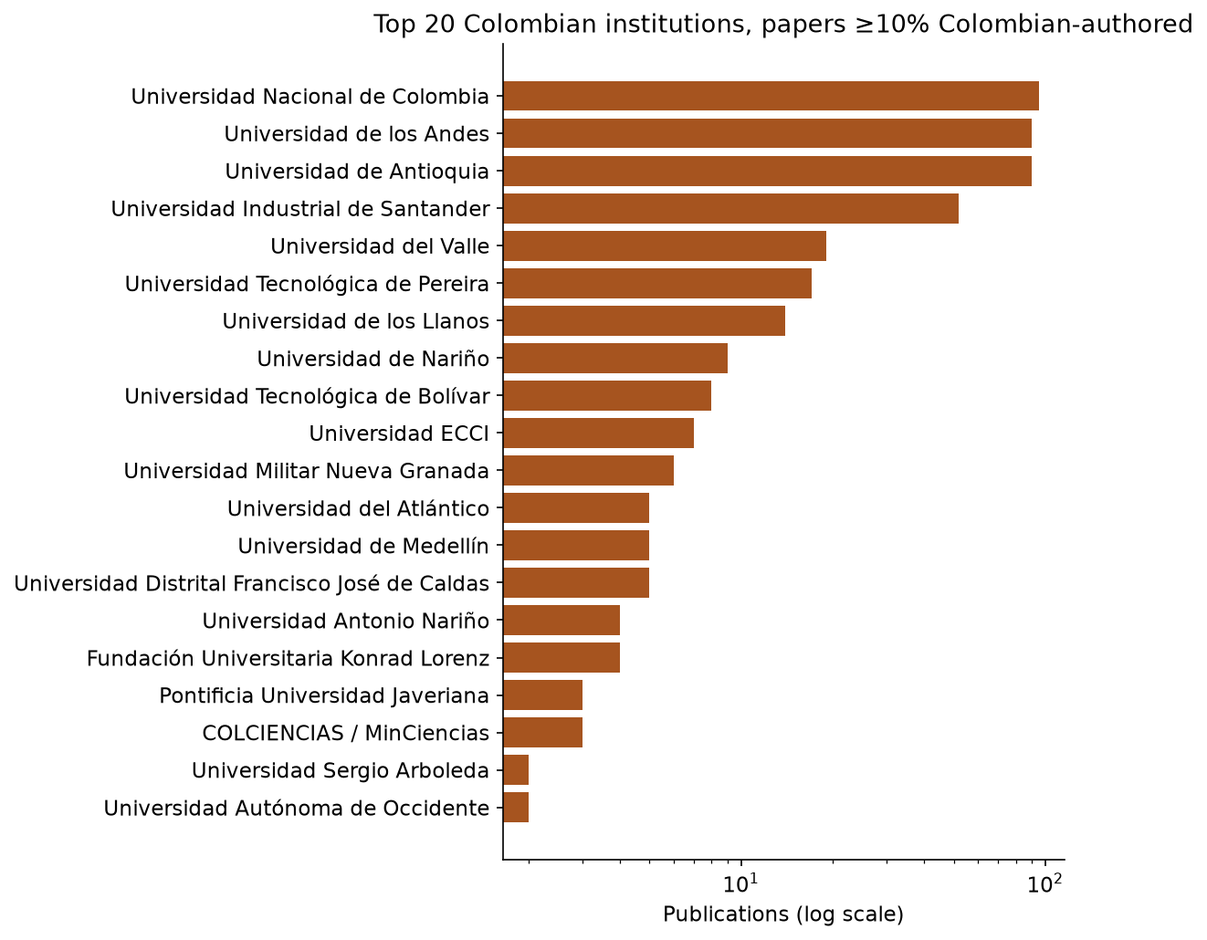
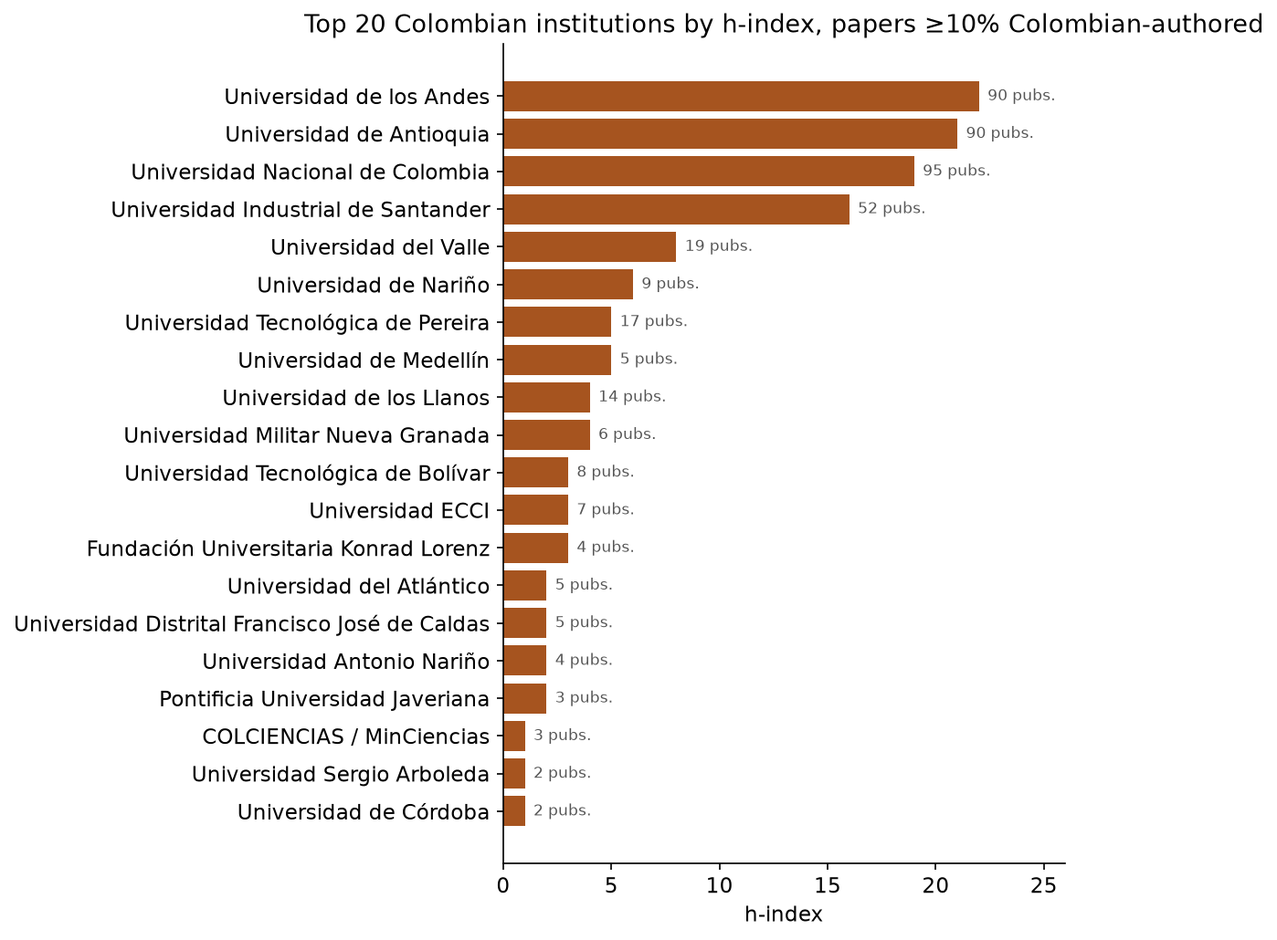
Ordenar las clasificaciones institucionales por Índice-H
Las dos tablas de instituciones y sus figuras pasan a ordenarse por Índice-H,
con número de publicaciones y total de citas como desempates, y las columnas
siguen ese mismo orden de izquierda a derecha. El Índice-H va primero porque
es el menos sensible a un solo artículo de consorcio: una publicación con
4.000 citas mueve el total de citas en un orden de magnitud pero el Índice-H
a lo sumo en una unidad.

Las figuras 4 y 11 pasan de barras de número de publicaciones en escala
logarítmica a barras de Índice-H en escala lineal, con el número de
publicaciones anotado en cada barra.

El nuevo orden cambia la lectura de la sección 8: los Andes siguen primeros,
pero su Índice-H baja de 47 a 22 y la ventaja sobre Antioquia (21) y la
Nacional (19) se disuelve en un empate técnico.

En el informe, "índice h" pasa a escribirse "Índice-H".

Changed region(s): [[0.0, 0.0, 0.9924, 0.9942]]

diff --git a/index.html b/index.html
@@ -534,7 +534,7 @@
 
   <div class="abstract">
     <span class="label">Resumen</span>
-    <p class="lede">Recopilamos 723 publicaciones de astronom&iacute;a y astrof&iacute;sica indexadas en el Astrophysics Data System de la NASA con al menos un autor de afiliaci&oacute;n colombiana, entre 1980 y 2026. El conjunto de registros abarca 56 revistas y, tras la fusi&oacute;n heur&iacute;stica de nombres, cerca de 403 investigadores individuales en 33 instituciones identificadas, que en conjunto acumulan m&aacute;s de 26.500 citas y un &iacute;ndice <em>h</em> global de 65. Reportamos tendencias de crecimiento, efectos del tama&ntilde;o de colaboraci&oacute;n, patrones de citaci&oacute;n, clasificaciones institucionales, y distribuciones por revista y por tema, siguiendo el enfoque descriptivo de Forero&#8209;Romero (2024) en todo lo que los datos disponibles lo permiten. Universidad de los Andes, Universidad de Antioquia, Universidad Nacional de Colombia y Universidad Industrial de Santander siguen siendo los cuatro mayores contribuyentes, consistente con el hallazgo central del estudio anterior pese a tres a&ntilde;os adicionales de datos y una base de datos fuente distinta.</p>
+    <p class="lede">Recopilamos 723 publicaciones de astronom&iacute;a y astrof&iacute;sica indexadas en el Astrophysics Data System de la NASA con al menos un autor de afiliaci&oacute;n colombiana, entre 1980 y 2026. El conjunto de registros abarca 56 revistas y, tras la fusi&oacute;n heur&iacute;stica de nombres, cerca de 403 investigadores individuales en 33 instituciones identificadas, que en conjunto acumulan m&aacute;s de 26.500 citas y un &Iacute;ndice-H global de 65. Reportamos tendencias de crecimiento, efectos del tama&ntilde;o de colaboraci&oacute;n, patrones de citaci&oacute;n, clasificaciones institucionales, y distribuciones por revista y por tema, siguiendo el enfoque descriptivo de Forero&#8209;Romero (2024) en todo lo que los datos disponibles lo permiten. Universidad de los Andes, Universidad de Antioquia, Universidad Nacional de Colombia y Universidad Industrial de Santander siguen siendo los cuatro mayores contribuyentes, consistente con el hallazgo central del estudio anterior pese a tres a&ntilde;os adicionales de datos y una base de datos fuente distinta.</p>
   </div>
 
   <div class="stat-strip">
@@ -543,7 +543,7 @@
     <div class="stat"><span class="n tabular">403</span><span class="lbl">Autores con afiliaci&oacute;n colombiana</span></div>
     <div class="stat"><span class="n tabular">33</span><span class="lbl">Instituciones identificadas</span></div>
     <div class="stat"><span class="n tabular">26.550</span><span class="lbl">Citas totales</span></div>
-    <div class="stat"><span class="n tabular">65</span><span class="lbl">&Iacute;ndice <em>h</em> global</span></div>
+    <div class="stat"><span class="n tabular">65</span><span class="lbl">&Iacute;ndice-H global</span></div>
   </div>
 
   <section class="chapter" id="data">
@@ -606,28 +606,29 @@
       <span class="chapter-num">5</span>
       <h2>Instituciones</h2>
     </div>
-    <p>Cuatro instituciones concentran la gran mayor&iacute;a de la producci&oacute;n atribuida institucionalmente: Universidad de los Andes, Universidad de Antioquia, Universidad Nacional de Colombia y Universidad Industrial de Santander, las mismas cuatro que encabezaban la clasificaci&oacute;n de Forero&#8209;Romero (2024) hace tres a&ntilde;os, ahora acompa&ntilde;adas de una cola m&aacute;s larga de contribuyentes menores. Como el rango abarca casi dos &oacute;rdenes de magnitud, la gr&aacute;fica a continuaci&oacute;n usa un eje logar&iacute;tmico.</p>
+    <p>Cuatro instituciones concentran la gran mayor&iacute;a de la producci&oacute;n atribuida institucionalmente: Universidad de los Andes, Universidad de Antioquia, Universidad Industrial de Santander y Universidad Nacional de Colombia, las mismas cuatro que encabezaban la clasificaci&oacute;n de Forero&#8209;Romero (2024) hace tres a&ntilde;os, ahora acompa&ntilde;adas de una cola m&aacute;s larga de contribuyentes menores.</p>
+    <p>Ordenamos las instituciones por &Iacute;ndice-H, y usamos el n&uacute;mero de publicaciones y luego el total de citas para desempatar. El &Iacute;ndice-H va primero porque es el menos sensible de los tres a un solo art&iacute;culo de consorcio: sumar una publicaci&oacute;n con 4.000 citas mueve el total de citas de una instituci&oacute;n en un orden de magnitud, pero su &Iacute;ndice-H a lo sumo en una unidad. Las tres columnas aparecen en ese mismo orden en las tablas, de izquierda a derecha.</p>
     <figure>
-      <div class="figure-card"><img src="output/figures/fig4_top_institutions.png" alt="Gr&aacute;fico de barras horizontales de las 20 principales instituciones colombianas por n&uacute;mero de publicaciones, eje x logar&iacute;tmico, encabezado por la Universidad de los Andes."></div>
-      <figcaption><strong>Fig. 6</strong>: Las 20 principales instituciones colombianas por n&uacute;mero de publicaciones (escala logar&iacute;tmica).</figcaption>
+      <div class="figure-card"><img src="output/figures/fig4_top_institutions.png" alt="Gr&aacute;fico de barras horizontales de las 20 principales instituciones colombianas por &iacute;ndice h, encabezado por la Universidad de los Andes con 47."></div>
+      <figcaption><strong>Fig. 6</strong>: Las 20 principales instituciones colombianas por &Iacute;ndice-H, con el n&uacute;mero de publicaciones anotado en cada barra.</figcaption>
     </figure>
     <div class="table-wrap">
       <table>
-        <caption>Tabla 1: Las 10 principales instituciones colombianas</caption>
+        <caption>Tabla 1: Las 10 principales instituciones colombianas, por &Iacute;ndice-H</caption>
         <thead>
-          <tr><th class="wrap">Instituci&oacute;n</th><th class="num">Pubs.</th><th class="num">Autores</th><th class="num">Citas</th><th class="num"><em>h</em></th><th class="num">Activa desde</th></tr>
+          <tr><th class="wrap">Instituci&oacute;n</th><th class="num">&Iacute;ndice-H</th><th class="num">Pubs.</th><th class="num">Citas</th><th class="num">Autores</th><th class="num">Activa desde</th></tr>
         </thead>
         <tbody>
-          <tr class="row-lead"><td class="wrap">Universidad de los Andes</td><td class="num">298</td><td class="num">67</td><td class="num">12.603</td><td class="num">47</td><td class="num">1980</td></tr>
-          <tr><td class="wrap">Universidad de Antioquia</td><td class="num">118</td><td class="num">75</td><td class="num">3.561</td><td class="num">29</td><td class="num">2005</td></tr>
-          <tr><td class="wrap">Universidad Nacional de Colombia</td><td class="num">99</td><td class="num">93</td><td class="num">1.357</td><td class="num">20</td><td class="num">1980</td></tr>
-          <tr><td class="wrap">Universidad Industrial de Santander</td><td class="num">84</td><td class="num">51</td><td class="num">6.723</td><td class="num">24</td><td class="num">2006</td></tr>
-          <tr><td class="wrap">Universidad de Medell&iacute;n</td><td class="num">24</td><td class="num">5</td><td class="num">943</td><td class="num">18</td><td class="num">2010</td></tr>
-          <tr><td class="wrap">Universidad del Valle</td><td class="num">19</td><td class="num">16</td><td class="num">220</td><td class="num">8</td><td class="num">2012</td></tr>
-          <tr><td class="wrap">Universidad Tecnol&oacute;gica de Pereira</td><td class="num">17</td><td class="num">12</td><td class="num">112</td><td class="num">5</td><td class="num">1997</td></tr>
-          <tr><td class="wrap">Universidad de los Llanos</td><td class="num">14</td><td class="num">1</td><td class="num">42</td><td class="num">4</td><td class="num">2018</td></tr>
-          <tr><td class="wrap">Universidad de Nari&ntilde;o</td><td class="num">12</td><td class="num">5</td><td class="num">187</td><td class="num">7</td><td class="num">2015</td></tr>
-          <tr><td class="wrap">Universidad ECCI</td><td class="num">9</td><td class="num">6</td><td class="num">363</td><td class="num">5</td><td class="num">2017</td></tr>
+          <tr class="row-lead"><td class="wrap">Universidad de los Andes</td><td class="num">47</td><td class="num">298</td><td class="num">12.603</td><td class="num">67</td><td class="num">1980</td></tr>
+          <tr><td class="wrap">Universidad de Antioquia</td><td class="num">29</td><td class="num">118</td><td class="num">3.561</td><td class="num">75</td><td class="num">2005</td></tr>
+          <tr><td class="wrap">Universidad Industrial de Santander</td><td class="num">24</td><td class="num">84</td><td class="num">6.723</td><td class="num">51</td><td class="num">2006</td></tr>
+          <tr><td class="wrap">Universidad Nacional de Colombia</td><td class="num">20</td><td class="num">99</td><td class="num">1.357</td><td class="num">93</td><td class="num">1980</td></tr>
+          <tr><td class="wrap">Universidad de Medell&iacute;n</td><td class="num">18</td><td class="num">24</td><td class="num">943</td><td class="num">5</td><td class="num">2010</td></tr>
+          <tr><td class="wrap">Universidad del Valle</td><td class="num">8</td><td class="num">19</td><td class="num">220</td><td class="num">16</td><td class="num">2012</td></tr>
+          <tr><td class="wrap">Universidad de Nari&ntilde;o</td><td class="num">7</td><td class="num">12</td><td class="num">187</td><td class="num">5</td><td class="num">2015</td></tr>
+          <tr><td class="wrap">Universidad Tecnol&oacute;gica de Pereira</td><td class="num">5</td><td class="num">17</td><td class="num">112</td><td class="num">12</td><td class="num">1997</td></tr>
+          <tr><td class="wrap">Universidad ECCI</td><td class="num">5</td><td class="num">9</td><td class="num">363</td><td class="num">6</td><td class="num">2017</td></tr>
+          <tr><td class="wrap">Universidad de los Llanos</td><td class="num">4</td><td class="num">14</td><td class="num">42</td><td class="num">1</td><td class="num">2018</td></tr>
         </tbody>
       </table>
     </div>
@@ -689,31 +690,31 @@
     <p>Preferimos este criterio a un tope en el n&uacute;mero de autores por tres razones. Es adimensional, de modo que no envejece a medida que las colaboraciones crecen. Mide directamente lo que interesa, la parte del art&iacute;culo que es colombiana, en vez de usar el tama&ntilde;o como sustituto. Y conserva los trabajos grandes con participaci&oacute;n colombiana sustancial que un corte por tama&ntilde;o descartar&iacute;a: el art&iacute;culo de ocultaci&oacute;n estelar de Arrokoth (2020) tiene 133 autores, quince de ellos colombianos, y sobrevive al filtro. Un corte por tama&ntilde;o, adem&aacute;s, no tendr&iacute;a d&oacute;nde apoyarse: el histograma de n&uacute;mero de autores (Fig. 3) solo presenta un hueco claro entre 80 y 100, que separa consorcios grandes de consorcios enormes en lugar de aislar el trabajo colombiano. La franja de 31 a 80 autores son casi enteramente art&iacute;culos t&eacute;cnicos de DESI con un &uacute;nico coautor colombiano, con una participaci&oacute;n colombiana media del 2&#37;.</p>
     <p>Conviene subrayar que las publicaciones descartadas son trabajo real y a menudo de alto impacto. El objetivo no es excluirlas, sino ver qu&eacute; queda cuando no dominan el conteo.</p>
     <figure>
-      <div class="figure-card"><img src="output/figures/fig11_top_institutions_colombia_led.png" alt="Gr&aacute;fico de barras horizontales de las 20 principales instituciones colombianas contando solo publicaciones con al menos un 10&#37; de autores colombianos, eje x logar&iacute;tmico; la Universidad Nacional queda primera, seguida de cerca por los Andes y Antioquia."></div>
-      <figcaption><strong>Fig. 9</strong>: Las 20 principales instituciones contando solo publicaciones con al menos un 10&#37; de autores colombianos (escala logar&iacute;tmica). Comp&aacute;rese con la Fig. 6.</figcaption>
+      <div class="figure-card"><img src="output/figures/fig11_top_institutions_colombia_led.png" alt="Gr&aacute;fico de barras horizontales de las 20 principales instituciones colombianas por &iacute;ndice h, contando solo publicaciones con al menos un 10&#37; de autores colombianos; los Andes, Antioquia y la Nacional quedan casi empatadas."></div>
+      <figcaption><strong>Fig. 9</strong>: Las 20 principales instituciones por &Iacute;ndice-H, contando solo publicaciones con al menos un 10&#37; de autores colombianos. Comp&aacute;rese con la Fig. 6, donde la escala del eje es m&aacute;s del doble.</figcaption>
     </figure>
     <div class="table-wrap">
       <table>
-        <caption>Tabla 3: Las 10 principales instituciones en publicaciones con &#8805;10&#37; de autores colombianos</caption>
+        <caption>Tabla 3: Las 10 principales instituciones en publicaciones con &#8805;10&#37; de autores colombianos, por &Iacute;ndice-H</caption>
         <thead>
-          <tr><th class="wrap">Instituci&oacute;n</th><th class="num">Pubs.</th><th class="num">Autores</th><th class="num">Citas</th><th class="num"><em>h</em></th><th class="num">Pubs. en Tabla 1</th></tr>
+          <tr><th class="wrap">Instituci&oacute;n</th><th class="num">&Iacute;ndice-H</th><th class="num">Pubs.</th><th class="num">Citas</th><th class="num">Autores</th><th class="num">&Iacute;ndice-H en Tabla 1</th></tr>
         </thead>
         <tbody>
-          <tr class="row-lead"><td class="wrap">Universidad Nacional de Colombia</td><td class="num">95</td><td class="num">89</td><td class="num">1.288</td><td class="num">19</td><td class="num">99</td></tr>
-          <tr><td class="wrap">Universidad de los Andes</td><td class="num">90</td><td class="num">63</td><td class="num">1.615</td><td class="num">22</td><td class="num">298</td></tr>
-          <tr><td class="wrap">Universidad de Antioquia</td><td class="num">90</td><td class="num">70</td><td class="num">1.764</td><td class="num">21</td><td class="num">118</td></tr>
-          <tr><td class="wrap">Universidad Industrial de Santander</td><td class="num">52</td><td class="num">35</td><td class="num">914</td><td class="num">16</td><td class="num">84</td></tr>
-          <tr><td class="wrap">Universidad del Valle</td><td class="num">19</td><td class="num">16</td><td class="num">220</td><td class="num">8</td><td class="num">19</td></tr>
-          <tr><td class="wrap">Universidad Tecnol&oacute;gica de Pereira</td><td class="num">17</td><td class="num">12</td><td class="num">112</td><td class="num">5</td><td class="num">17</td></tr>
-          <tr><td class="wrap">Universidad de los Llanos</td><td class="num">14</td><td class="num">1</td><td class="num">42</td><td class="num">4</td><td class="num">14</td></tr>
-          <tr><td class="wrap">Universidad de Nari&ntilde;o</td><td class="num">9</td><td class="num">4</td><td class="num">147</td><td class="num">6</td><td class="num">12</td></tr>
-          <tr><td class="wrap">Universidad Tecnol&oacute;gica de Bol&iacute;var</td><td class="num">8</td><td class="num">6</td><td class="num">34</td><td class="num">3</td><td class="num">8</td></tr>
-          <tr><td class="wrap">Universidad ECCI</td><td class="num">7</td><td class="num">5</td><td class="num">34</td><td class="num">3</td><td class="num">9</td></tr>
+          <tr class="row-lead"><td class="wrap">Universidad de los Andes</td><td class="num">22</td><td class="num">90</td><td class="num">1.615</td><td class="num">63</td><td class="num">47</td></tr>
+          <tr><td class="wrap">Universidad de Antioquia</td><td class="num">21</td><td class="num">90</td><td class="num">1.764</td><td class="num">70</td><td class="num">29</td></tr>
+          <tr><td class="wrap">Universidad Nacional de Colombia</td><td class="num">19</td><td class="num">95</td><td class="num">1.288</td><td class="num">89</td><td class="num">20</td></tr>
+          <tr><td class="wrap">Universidad Industrial de Santander</td><td class="num">16</td><td class="num">52</td><td class="num">914</td><td class="num">35</td><td class="num">24</td></tr>
+          <tr><td class="wrap">Universidad del Valle</td><td class="num">8</td><td class="num">19</td><td class="num">220</td><td class="num">16</td><td class="num">8</td></tr>
+          <tr><td class="wrap">Universidad de Nari&ntilde;o</td><td class="num">6</td><td class="num">9</td><td class="num">147</td><td class="num">4</td><td class="num">7</td></tr>
+          <tr><td class="wrap">Universidad Tecnol&oacute;gica de Pereira</td><td class="num">5</td><td class="num">17</td><td class="num">112</td><td class="num">12</td><td class="num">5</td></tr>
+          <tr><td class="wrap">Universidad de Medell&iacute;n</td><td class="num">5</td><td class="num">5</td><td class="num">192</td><td class="num">3</td><td class="num">18</td></tr>
+          <tr><td class="wrap">Universidad de los Llanos</td><td class="num">4</td><td class="num">14</td><td class="num">42</td><td class="num">1</td><td class="num">4</td></tr>
+          <tr><td class="wrap">Universidad Militar Nueva Granada</td><td class="num">4</td><td class="num">6</td><td class="num">50</td><td class="num">4</td><td class="num">4</td></tr>
         </tbody>
       </table>
     </div>
-    <p>El cambio m&aacute;s marcado est&aacute; en la cabeza de la tabla, y llega a invertir el orden. La Universidad de los Andes pasa de 298 a 90 publicaciones: cerca del 70&#37; de su producci&oacute;n registrada proviene de art&iacute;culos de grandes colaboraciones internacionales, y de manera casi exclusiva de DESI, a la que est&aacute; vinculado el Observatorio Astron&oacute;mico de la Universidad de los Andes. La Universidad Nacional de Colombia, en cambio, pasa de 99 a 95 y queda en el primer puesto, porque su recuento es casi enteramente trabajo con participaci&oacute;n colombiana mayoritaria. Antioquia baja de 118 a 90 y empata con los Andes; la Universidad Industrial de Santander baja de 84 a 52, por su participaci&oacute;n en el Observatorio Pierre Auger.</p>
-    <p>Las citas se reordenan a&uacute;n m&aacute;s: los Andes pasan de 12.603 a 1.615 y la UIS de 6.723 a 914, mientras que la Nacional apenas baja de 1.357 a 1.288. Dicho de otro modo, la mayor parte de la ventaja en citas de las dos primeras instituciones proviene de art&iacute;culos de consorcio con cientos o miles de coautores, donde la contribuci&oacute;n colombiana es una fracci&oacute;n del total. Ninguna de las dos lecturas es la correcta por s&iacute; sola: la Tabla 1 mide participaci&oacute;n en la astronom&iacute;a mundial y la Tabla 3 mide capacidad de investigaci&oacute;n propia, y la diferencia entre ambas es en s&iacute; misma el hallazgo.</p>
+    <p>El orden de la cabeza apenas cambia, pero las distancias se disuelven. La Universidad de los Andes sigue primera, y pasa de un &Iacute;ndice-H de 47 a uno de 22, y de 298 a 90 publicaciones: cerca del 70&#37; de su producci&oacute;n registrada proviene de art&iacute;culos de grandes colaboraciones internacionales, y de manera casi exclusiva de DESI, a la que est&aacute; vinculado el Observatorio Astron&oacute;mico de la Universidad de los Andes. La Universidad Nacional de Colombia, en cambio, apenas baja de 20 a 19 y de 99 a 95 publicaciones, porque su recuento es casi enteramente trabajo con participaci&oacute;n colombiana mayoritaria: es la instituci&oacute;n con m&aacute;s publicaciones de la Tabla 3, aunque no la de mayor &Iacute;ndice-H. Lo que en la Tabla 1 era una ventaja de m&aacute;s de dos a uno en &Iacute;ndice-H se convierte aqu&iacute; en un empate t&eacute;cnico entre tres instituciones: 22, 21 y 19.</p>
+    <p>Las citas se reordenan a&uacute;n m&aacute;s: los Andes pasan de 12.603 a 1.615 y la UIS de 6.723 a 914, mientras que la Nacional apenas baja de 1.357 a 1.288. Dicho de otro modo, la mayor parte de la ventaja en citas de las dos primeras instituciones proviene de art&iacute;culos de consorcio con cientos o miles de coautores, donde la contribuci&oacute;n colombiana es una fracci&oacute;n del total. La Universidad de Medell&iacute;n es el caso extremo: su &Iacute;ndice-H cae de 18 a 5, porque 19 de sus 24 publicaciones son art&iacute;culos de consorcio. Ninguna de las dos lecturas es la correcta por s&iacute; sola: la Tabla 1 mide participaci&oacute;n en la astronom&iacute;a mundial y la Tabla 3 mide capacidad de investigaci&oacute;n propia, y la diferencia entre ambas es en s&iacute; misma el hallazgo.</p>
     <p>El mismo criterio aplicado a los trabajos m&aacute;s citados cambia la lista por completo: ninguno de los diez art&iacute;culos de la Tabla 2 sobrevive al filtro. Lo que aparece en su lugar son art&iacute;culos de grupos peque&ntilde;os, de entre tres y catorce autores, en poblaciones estelares y c&uacute;mulos j&oacute;venes, astrof&iacute;sica relativista, red c&oacute;smica y f&iacute;sica solar.</p>
     <div class="table-wrap">
       <table>

diff --git a/src/plots.py b/src/plots.py
@@ -205,27 +205,34 @@ def fig_citations_vs_authors(pubs: pd.DataFrame) -> float:
     return pearson_r
 
 
-def fig_top_institutions(authors: pd.DataFrame, top_n: int = 20) -> pd.DataFrame:
-    colombian = authors[authors["is_colombian"]]
-    counts = (
-        colombian[colombian["institution"] != "Other Colombian institution"]
-        .groupby("institution")["bibcode"]
-        .nunique()
-        .sort_values(ascending=False)
-    )
-    top = counts.head(top_n)
+def _plot_institution_ranking(table: pd.DataFrame, path: Path, title: str, color: str) -> None:
+    """Horizontal bars of h-index in ranking order (h, then pubs, then citations).
 
+    The bar length is the h-index because that is the primary sort key; the
+    publication count is annotated on each bar so the second key stays visible.
+    """
     fig, ax = plt.subplots(figsize=(8, 7))
-    ax.barh(top.index[::-1], top.to_numpy()[::-1], color="#1f5aa6")
-    # This ranking spans ~2 orders of magnitude (Uniandes vs. the smallest
-    # entrant), so a linear axis flattens everything below the top few bars.
-    ax.set_xscale("log")
-    ax.set_xlabel("Publications (log scale)")
-    ax.set_title(f"Top {top_n} Colombian institutions by publication count")
+    rows = table[::-1]
+    ax.barh(rows["Institution"], rows["h_index"], color=color)
+    for y, (h, n) in enumerate(zip(rows["h_index"], rows["n_publications"])):
+        ax.text(h + 0.4, y, f"{n} pubs.", va="center", fontsize=8, color="#555555")
+    ax.set_xlim(0, table["h_index"].max() * 1.18)
+    ax.set_xlabel("h-index")
+    ax.set_title(title)
     fig.tight_layout()
-    fig.savefig(FIG_DIR / "fig4_top_institutions.png", bbox_inches="tight")
+    fig.savefig(path, bbox_inches="tight")
     plt.close(fig)
-    return counts
+
+
+def fig_top_institutions(authors: pd.DataFrame, pubs: pd.DataFrame, top_n: int = 20) -> pd.DataFrame:
+    table = _institution_stats(authors, pubs, top_n)
+    _plot_institution_ranking(
+        table,
+        FIG_DIR / "fig4_top_institutions.png",
+        f"Top {top_n} Colombian institutions by h-index",
+        "#1f5aa6",
+    )
+    return table
 
 
 def fig_top_authors(authors: pd.DataFrame, top_n: int = 20) -> pd.DataFrame:
@@ -335,8 +342,15 @@ def fig_coauthorship_network(authors: pd.DataFrame, min_pubs: int = 5) -> None:
 # ---------------------------------------------------------------------------
 
 
+# Institution rankings are ordered by h-index first, since it is the least
+# gameable of the three by a single large-collaboration paper, with publication
+# count and then total citations as tie-breakers. Table columns follow the same
+# order so the ranking key is readable left to right.
+INSTITUTION_RANK_KEYS = ["h_index", "n_publications", "total_citations"]
+
+
 def _institution_stats(authors: pd.DataFrame, pubs: pd.DataFrame, top_n: int) -> pd.DataFrame:
-    """Per-institution publication, author and citation stats, ranked by pubs."""
+    """Per-institution stats, ranked by h-index, then publications, then citations."""
     colombian = authors[
         authors["is_colombian"] & (authors["institution"] != "Other Colombian institution")
     ]
@@ -358,10 +372,14 @@ def _institution_stats(authors: pd.DataFrame, pubs: pd.DataFrame, top_n: int) ->
     table = (
         grouped.join(years)
         .join(citation_stats)
-        .sort_values("n_publications", ascending=False)
+        .sort_values(INSTITUTION_RANK_KEYS, ascending=False)
         .head(top_n)
+        .reset_index()
+        .rename(columns={"institution": "Institution"})
     )
-    return table.reset_index().rename(columns={"institution": "Institution"})
+    return table[
+        ["Institution", *INSTITUTION_RANK_KEYS, "n_unique_authors", "first_year", "last_year"]
+    ]
 
 
 def table_institutions(authors: pd.DataFrame, pubs: pd.DataFrame, top_n: int = 25) -> pd.DataFrame:
@@ -421,30 +439,16 @@ def fig_top_institutions_colombia_led(
 ) -> pd.DataFrame:
     """Fig. 4's ranking over Colombia-led publications only."""
     led = colombia_led(pubs)
-    colombian = authors[
-        authors["is_colombian"]
-        & (authors["institution"] != "Other Colombian institution")
-        & authors["bibcode"].isin(set(led["bibcode"]))
-    ]
-    counts = (
-        colombian.groupby("institution")["bibcode"]
-        .nunique()
-        .sort_values(ascending=False)
+    led_authors = authors[authors["bibcode"].isin(set(led["bibcode"]))]
+    table = _institution_stats(led_authors, led, top_n)
+    _plot_institution_ranking(
+        table,
+        FIG_DIR / "fig11_top_institutions_colombia_led.png",
+        f"Top {top_n} Colombian institutions by h-index, papers "
+        f"\u2265{COLOMBIA_LED_MIN_SHARE:.0%} Colombian-authored",
+        "#a6541f",
     )
-    top = counts.head(top_n)
-
-    fig, ax = plt.subplots(figsize=(8, 7))
-    ax.barh(top.index[::-1], top.to_numpy()[::-1], color="#a6541f")
-    ax.set_xscale("log")
-    ax.set_xlabel("Publications (log scale)")
-    ax.set_title(
-        f"Top {top_n} Colombian institutions, papers "
-        f"\u2265{COLOMBIA_LED_MIN_SHARE:.0%} Colombian-authored"
-    )
-    fig.tight_layout()
-    fig.savefig(FIG_DIR / "fig11_top_institutions_colombia_led.png", bbox_inches="tight")
-    plt.close(fig)
-    return counts
+    return table
 
 
 def _top_cited(pubs: pd.DataFrame, authors: pd.DataFrame, top_n: int) -> pd.DataFrame:
@@ -590,7 +594,7 @@ def main() -> None:
     fig_authors_distribution(pubs)
     fig_citations_per_year(pubs)
     fig_citations_vs_authors(pubs)
-    fig_top_institutions(authors)
+    fig_top_institutions(authors, pubs)
     fig_top_authors(authors)
     fig_top_journals(pubs)
     fig_top_keywords(pubs)

diff --git a/output/tables/table5_institutions_colombia_led.md b/output/tables/table5_institutions_colombia_led.md
@@ -1,29 +1,29 @@
 # Top Colombian institutions, publications >= 10% Colombian-authored
 
-| Institution | n_publications | n_unique_authors | first_year | last_year | total_citations | h_index |
+| Institution | h_index | n_publications | total_citations | n_unique_authors | first_year | last_year |
 | --- | --- | --- | --- | --- | --- | --- |
-| Universidad Nacional de Colombia | 95 | 89 | 1980 | 2026 | 1288 | 19 |
-| Universidad de los Andes | 90 | 63 | 1980 | 2026 | 1615 | 22 |
-| Universidad de Antioquia | 90 | 70 | 2005 | 2026 | 1764 | 21 |
-| Universidad Industrial de Santander | 52 | 35 | 2006 | 2026 | 914 | 16 |
-| Universidad del Valle | 19 | 16 | 2012 | 2025 | 220 | 8 |
-| Universidad Tecnológica de Pereira | 17 | 12 | 1997 | 2026 | 112 | 5 |
-| Universidad de los Llanos | 14 | 1 | 2018 | 2026 | 42 | 4 |
-| Universidad de Nariño | 9 | 4 | 2015 | 2025 | 147 | 6 |
-| Universidad Tecnológica de Bolívar | 8 | 6 | 2022 | 2026 | 34 | 3 |
-| Universidad ECCI | 7 | 5 | 2017 | 2026 | 34 | 3 |
-| Universidad Militar Nueva Granada | 6 | 4 | 2017 | 2026 | 50 | 4 |
-| Universidad del Atlántico | 5 | 6 | 1997 | 2023 | 25 | 2 |
-| Universidad de Medellín | 5 | 3 | 2010 | 2016 | 192 | 5 |
-| Universidad Distrital Francisco José de Caldas | 5 | 7 | 2019 | 2022 | 18 | 2 |
-| Universidad Antonio Nariño | 4 | 4 | 2024 | 2026 | 12 | 2 |
-| Fundación Universitaria Konrad Lorenz | 4 | 2 | 2016 | 2018 | 302 | 3 |
-| Pontificia Universidad Javeriana | 3 | 4 | 2018 | 2022 | 9 | 2 |
-| COLCIENCIAS / MinCiencias | 3 | 2 | 2015 | 2021 | 4 | 1 |
-| Universidad Sergio Arboleda | 2 | 2 | 2019 | 2020 | 59 | 1 |
-| Universidad Autónoma de Occidente | 2 | 5 | 2014 | 2026 | 0 | 0 |
-| Universidad de Córdoba | 2 | 2 | 2022 | 2026 | 13 | 1 |
-| Fundación Universitaria Los Libertadores | 2 | 4 | 2025 | 2026 | 11 | 1 |
-| Universidad EAFIT | 2 | 3 | 2019 | 2026 | 11 | 1 |
-| Universidad Pedagógica y Tecnológica de Colombia | 1 | 3 | 2026 | 2026 | 0 | 0 |
-| Colombian Air Force (FAC/EMAVI) | 1 | 3 | 2025 | 2025 | 0 | 0 |
+| Universidad de los Andes | 22 | 90 | 1615 | 63 | 1980 | 2026 |
+| Universidad de Antioquia | 21 | 90 | 1764 | 70 | 2005 | 2026 |
+| Universidad Nacional de Colombia | 19 | 95 | 1288 | 89 | 1980 | 2026 |
+| Universidad Industrial de Santander | 16 | 52 | 914 | 35 | 2006 | 2026 |
+| Universidad del Valle | 8 | 19 | 220 | 16 | 2012 | 2025 |
+| Universidad de Nariño | 6 | 9 | 147 | 4 | 2015 | 2025 |
+| Universidad Tecnológica de Pereira | 5 | 17 | 112 | 12 | 1997 | 2026 |
+| Universidad de Medellín | 5 | 5 | 192 | 3 | 2010 | 2016 |
+| Universidad de los Llanos | 4 | 14 | 42 | 1 | 2018 | 2026 |
+| Universidad Militar Nueva Granada | 4 | 6 | 50 | 4 | 2017 | 2026 |
+| Universidad Tecnológica de Bolívar | 3 | 8 | 34 | 6 | 2022 | 2026 |
+| Universidad ECCI | 3 | 7 | 34 | 5 | 2017 | 2026 |
+| Fundación Universitaria Konrad Lorenz | 3 | 4 | 302 | 2 | 2016 | 2018 |
+| Universidad del Atlántico | 2 | 5 | 25 | 6 | 1997 | 2023 |
+| Universidad Distrital Francisco José de Caldas | 2 | 5 | 18 | 7 | 2019 | 2022 |
+| Universidad Antonio Nariño | 2 | 4 | 12 | 4 | 2024 | 2026 |
+| Pontificia Universidad Javeriana | 2 | 3 | 9 | 4 | 2018 | 2022 |
+| COLCIENCIAS / MinCiencias | 1 | 3 | 4 | 2 | 2015 | 2021 |
+| Universidad Sergio Arboleda | 1 | 2 | 59 | 2 | 2019 | 2020 |
+| Universidad de Córdoba | 1 | 2 | 13 | 2 | 2022 | 2026 |
+| Fundación Universitaria Los Libertadores | 1 | 2 | 11 | 4 | 2025 | 2026 |
+| Universidad EAFIT | 1 | 2 | 11 | 3 | 2019 | 2026 |
+| Planetario de Bogotá | 1 | 1 | 22 | 1 | 2013 | 2013 |
+| Universidad Ean | 1 | 1 | 7 | 1 | 2023 | 2023 |
+| Universidad El Bosque | 1 | 1 | 7 | 1 | 2024 | 2024 |

diff --git a/output/tables/table1_institutions.md b/output/tables/table1_institutions.md
@@ -1,29 +1,29 @@
 # Top Colombian institutions
 
-| Institution | n_publications | n_unique_authors | first_year | last_year | total_citations | h_index |
+| Institution | h_index | n_publications | total_citations | n_unique_authors | first_year | last_year |
 | --- | --- | --- | --- | --- | --- | --- |
-| Universidad de los Andes | 298 | 67 | 1980 | 2026 | 12603 | 47 |
-| Universidad de Antioquia | 118 | 75 | 2005 | 2026 | 3561 | 29 |
-| Universidad Nacional de Colombia | 99 | 93 | 1980 | 2026 | 1357 | 20 |
-| Universidad Industrial de Santander | 84 | 51 | 2006 | 2026 | 6723 | 24 |
-| Universidad de Medellín | 24 | 5 | 2010 | 2025 | 943 | 18 |
-| Universidad del Valle | 19 | 16 | 2012 | 2025 | 220 | 8 |
-| Universidad Tecnológica de Pereira | 17 | 12 | 1997 | 2026 | 112 | 5 |
-| Universidad de los Llanos | 14 | 1 | 2018 | 2026 | 42 | 4 |
-| Universidad de Nariño | 12 | 5 | 2015 | 2026 | 187 | 7 |
-| Universidad ECCI | 9 | 6 | 2017 | 2026 | 363 | 5 |
-| Universidad Tecnológica de Bolívar | 8 | 6 | 2022 | 2026 | 34 | 3 |
-| Universidad Militar Nueva Granada | 8 | 4 | 2017 | 2026 | 103 | 4 |
-| Universidad del Atlántico | 5 | 6 | 1997 | 2023 | 25 | 2 |
-| Universidad Distrital Francisco José de Caldas | 5 | 7 | 2019 | 2022 | 18 | 2 |
-| Fundación Universitaria Konrad Lorenz | 5 | 2 | 2016 | 2022 | 643 | 4 |
-| Universidad Antonio Nariño | 4 | 4 | 2024 | 2026 | 12 | 2 |
-| Universidad EAFIT | 3 | 4 | 2019 | 2026 | 14 | 2 |
-| Universidad de Investigación y Desarrollo | 3 | 1 | 2025 | 2025 | 15 | 3 |
-| Pontificia Universidad Javeriana | 3 | 4 | 2018 | 2022 | 9 | 2 |
-| Universidad El Bosque | 3 | 2 | 2023 | 2026 | 474 | 2 |
-| COLCIENCIAS / MinCiencias | 3 | 2 | 2015 | 2021 | 4 | 1 |
-| Universidad Sergio Arboleda | 2 | 2 | 2019 | 2020 | 59 | 1 |
-| Universidad Autónoma de Occidente | 2 | 5 | 2014 | 2026 | 0 | 0 |
-| Universidad de Córdoba | 2 | 2 | 2022 | 2026 | 13 | 1 |
-| Fundación Universitaria Los Libertadores | 2 | 4 | 2025 | 2026 | 11 | 1 |
+| Universidad de los Andes | 47 | 298 | 12603 | 67 | 1980 | 2026 |
+| Universidad de Antioquia | 29 | 118 | 3561 | 75 | 2005 | 2026 |
+| Universidad Industrial de Santander | 24 | 84 | 6723 | 51 | 2006 | 2026 |
+| Universidad Nacional de Colombia | 20 | 99 | 1357 | 93 | 1980 | 2026 |
+| Universidad de Medellín | 18 | 24 | 943 | 5 | 2010 | 2025 |
+| Universidad del Valle | 8 | 19 | 220 | 16 | 2012 | 2025 |
+| Universidad de Nariño | 7 | 12 | 187 | 5 | 2015 | 2026 |
+| Universidad Tecnológica de Pereira | 5 | 17 | 112 | 12 | 1997 | 2026 |
+| Universidad ECCI | 5 | 9 | 363 | 6 | 2017 | 2026 |
+| Universidad de los Llanos | 4 | 14 | 42 | 1 | 2018 | 2026 |
+| Universidad Militar Nueva Granada | 4 | 8 | 103 | 4 | 2017 | 2026 |
+| Fundación Universitaria Konrad Lorenz | 4 | 5 | 643 | 2 | 2016 | 2022 |
+| Universidad Tecnológica de Bolívar | 3 | 8 | 34 | 6 | 2022 | 2026 |
+| Universidad de Investigación y Desarrollo | 3 | 3 | 15 | 1 | 2025 | 2025 |
+| Universidad del Atlántico | 2 | 5 | 25 | 6 | 1997 | 2023 |
+| Universidad Distrital Francisco José de Caldas | 2 | 5 | 18 | 7 | 2019 | 2022 |
+| Universidad Antonio Nariño | 2 | 4 | 12 | 4 | 2024 | 2026 |
+| Universidad El Bosque | 2 | 3 | 474 | 2 | 2023 | 2026 |
+| Universidad EAFIT | 2 | 3 | 14 | 4 | 2019 | 2026 |
+| Pontificia Universidad Javeriana | 2 | 3 | 9 | 4 | 2018 | 2022 |
+| COLCIENCIAS / MinCiencias | 1 | 3 | 4 | 2 | 2015 | 2021 |
+| Universidad Sergio Arboleda | 1 | 2 | 59 | 2 | 2019 | 2020 |
+| Universidad de Córdoba | 1 | 2 | 13 | 2 | 2022 | 2026 |
+| Fundación Universitaria Los Libertadores | 1 | 2 | 11 | 4 | 2025 | 2026 |
+| Planetario de Bogotá | 1 | 1 | 22 | 1 | 2013 | 2013 |

diff --git a/README.md b/README.md
@@ -139,7 +139,7 @@ genuinely different name spellings.
 1. `fig1_publications_over_time.png`: cumulative and per-year publication counts (log scale)
 2. `fig2_avg_authors_per_year.png`: mean/median authors per publication by year
 3. `fig3_authors_distribution.png`: log-log histogram of authorship size
-4. `fig4_top_institutions.png`: top 20 Colombian institutions by publication count
+4. `fig4_top_institutions.png`: top 20 Colombian institutions by h-index, with publication counts annotated
 5. `fig5_top_authors.png`: top 20 Colombian-affiliated authors by publication count
 6. `fig6_top_journals.png`: top 15 journals
 7. `fig7_top_keywords.png`: top 25 keywords
@@ -152,6 +152,13 @@ genuinely different name spellings.
 h-index per institution), `table2_top_authors`, `table3_journals`,
 `table4_top_cited` (top 10 most-cited articles), `table5_institutions_colombia_led`,
 `table6_top_cited_colombia_led`, all CSV + Markdown, plus `summary_stats.md`.
+
+Both institution rankings (`table1`, `table5`, and the two figures) are ordered
+by h-index, then publication count, then total citations, and the table columns
+follow that same order. The h-index leads because it is the least sensitive of
+the three to a single large-collaboration paper: one publication with 4,000
+citations moves an institution's citation total by an order of magnitude but its
+h-index by at most one.
 
 `fig11` / `table5` re-rank institutions over Colombia-led publications only,
 defined as those where Colombian-affiliated authors are at least 10% of the
